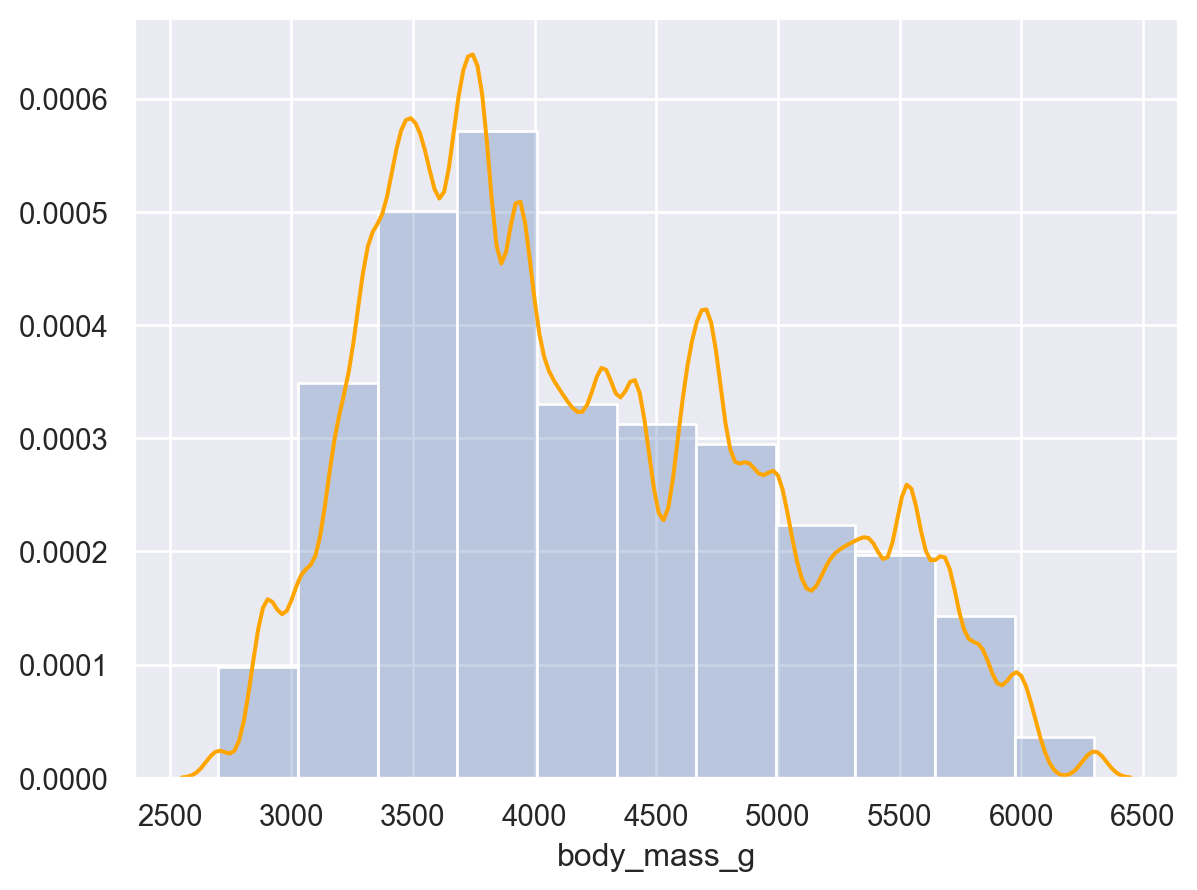
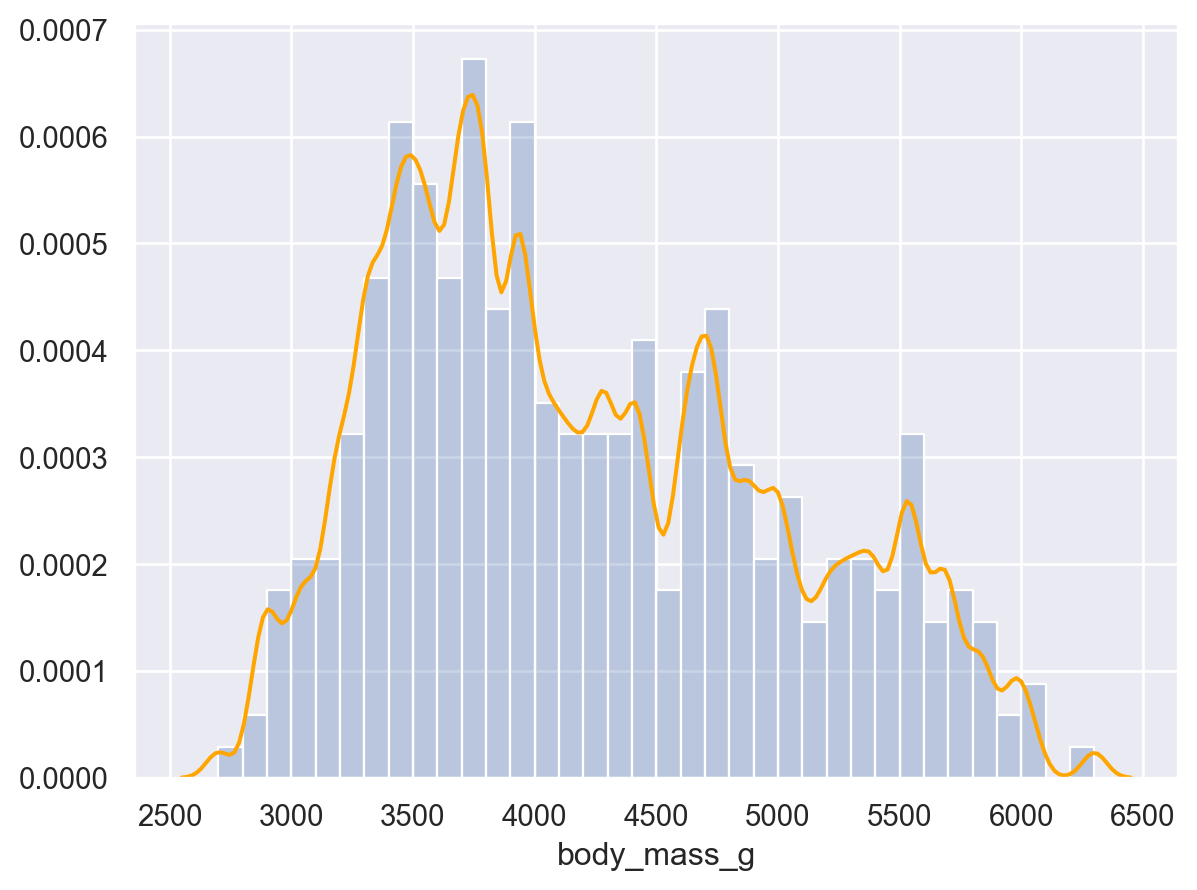
d

diff --git a/docs/contents/plots.html b/docs/contents/plots.html
@@ -510,7 +510,7 @@ code span.wa { color: #60a0b0; font-weight: bold; font-style: italic; } /* Warni
 </section>
 <section id="first-steps" class="level2">
 <h2 class="anchored" data-anchor-id="first-steps">First steps</h2>
-<div class="cell" data-execution_count="7">
+<div class="cell" data-execution_count="1">
 <details>
 <summary>Load packages</summary>
 <div class="sourceCode cell-code" id="cb1"><pre class="sourceCode python code-with-copy"><code class="sourceCode python"><span id="cb1-1"><a href="#cb1-1" aria-hidden="true" tabindex="-1"></a><span class="co"># numerical calculation &amp; data frames</span></span>
@@ -527,7 +527,7 @@ code span.wa { color: #60a0b0; font-weight: bold; font-style: italic; } /* Warni
 <span id="cb1-12"><a href="#cb1-12" aria-hidden="true" tabindex="-1"></a><span class="im">import</span> statsmodels.api <span class="im">as</span> sm</span></code><button title="Copy to Clipboard" class="code-copy-button"><i class="bi"></i></button></pre></div>
 </details>
 </div>
-<div class="cell" data-execution_count="9">
+<div class="cell" data-execution_count="3">
 <details>
 <summary>Options</summary>
 <div class="sourceCode cell-code" id="cb2"><pre class="sourceCode python code-with-copy"><code class="sourceCode python"><span id="cb2-1"><a href="#cb2-1" aria-hidden="true" tabindex="-1"></a><span class="co"># pandas options</span></span>
@@ -1015,12 +1015,12 @@ Tip
 </div>
 </div>
 </div>
-<div class="cell" data-execution_count="5">
+<div class="cell" data-execution_count="4">
 <div class="sourceCode cell-code" id="cb19"><pre class="sourceCode python code-with-copy"><code class="sourceCode python"><span id="cb19-1"><a href="#cb19-1" aria-hidden="true" tabindex="-1"></a>penguins <span class="op">=</span> sns.load_dataset(<span class="st">"penguins"</span>) <span class="co"># load a dataset: penguins</span></span>
 <span id="cb19-2"><a href="#cb19-2" aria-hidden="true" tabindex="-1"></a>penguins.head()</span></code><button title="Copy to Clipboard" class="code-copy-button"><i class="bi"></i></button></pre></div>
-<div class="cell-output cell-output-display" data-execution_count="5">
-<pre><code>  species     island  bill_length_mm  bill_depth_mm  flipper_length_mm  \
-0  Adelie  Torgersen           39.10          18.70             181.00   
+<div class="cell-output cell-output-display" data-execution_count="4">
+<pre><code>  species     island  bill_length_mm  bill_depth_mm  flipper_length_mm   
+0  Adelie  Torgersen           39.10          18.70             181.00  \
 1  Adelie  Torgersen           39.50          17.40             186.00   
 2  Adelie  Torgersen           40.30          18.00             195.00   
 3  Adelie  Torgersen             NaN            NaN                NaN   
@@ -1591,9 +1591,9 @@ Important
 <span id="cb43-3"><a href="#cb43-3" aria-hidden="true" tabindex="-1"></a>    so.Plot(penguins, x<span class="op">=</span><span class="st">"body_mass_g"</span>)</span>
 <span id="cb43-4"><a href="#cb43-4" aria-hidden="true" tabindex="-1"></a>    .add(so.Area(), so.KDE()) <span class="co"># Density plot</span></span>
 <span id="cb43-5"><a href="#cb43-5" aria-hidden="true" tabindex="-1"></a>)</span></code><button title="Copy to Clipboard" class="code-copy-button"><i class="bi"></i></button></pre></div>
-<div class="cell quarto-layout-panel" data-execution_count="86">
+<div class="cell quarto-layout-panel" data-execution_count="5">
 <div class="quarto-layout-row quarto-layout-valign-top">
-<div class="cell-output cell-output-display quarto-layout-cell" data-execution_count="86" style="flex-basis: 50.0%;justify-content: center;">
+<div class="cell-output cell-output-display quarto-layout-cell" data-execution_count="5" style="flex-basis: 50.0%;justify-content: center;">
 <p><img src="plots_files/figure-html/cell-51-output-1.png" class="img-fluid" width="599"></p>
 </div>
 </div>
@@ -1604,11 +1604,11 @@ Important
 <span id="cb44-2"><a href="#cb44-2" aria-hidden="true" tabindex="-1"></a>(</span>
 <span id="cb44-3"><a href="#cb44-3" aria-hidden="true" tabindex="-1"></a>    so.Plot(penguins, x<span class="op">=</span><span class="st">"body_mass_g"</span>)</span>
 <span id="cb44-4"><a href="#cb44-4" aria-hidden="true" tabindex="-1"></a>    .add(so.Line(color<span class="op">=</span><span class="st">"orange"</span>), so.KDE(bw_adjust<span class="op">=</span><span class="fl">.2</span>)) <span class="co"># Density bandwidth: binwidth에 대응</span></span>
-<span id="cb44-5"><a href="#cb44-5" aria-hidden="true" tabindex="-1"></a>    .add(so.Bars(alpha<span class="op">=</span><span class="fl">.3</span>), so.Hist(<span class="st">"density"</span>)) <span class="co"># stat="density"</span></span>
+<span id="cb44-5"><a href="#cb44-5" aria-hidden="true" tabindex="-1"></a>    .add(so.Bars(alpha<span class="op">=</span><span class="fl">.3</span>), so.Hist(<span class="st">"density"</span>, binwidth<span class="op">=</span><span class="dv">100</span>)) <span class="co"># stat="density"</span></span>
 <span id="cb44-6"><a href="#cb44-6" aria-hidden="true" tabindex="-1"></a>)</span></code><button title="Copy to Clipboard" class="code-copy-button"><i class="bi"></i></button></pre></div>
-<div class="cell quarto-layout-panel" data-execution_count="39">
+<div class="cell quarto-layout-panel" data-execution_count="14">
 <div class="quarto-layout-row quarto-layout-valign-top">
-<div class="cell-output cell-output-display quarto-layout-cell" data-execution_count="39" style="flex-basis: 50.0%;justify-content: center;">
+<div class="cell-output cell-output-display quarto-layout-cell" data-execution_count="14" style="flex-basis: 50.0%;justify-content: center;">
 <p><img src="plots_files/figure-html/cell-52-output-1.png" class="img-fluid" width="599"></p>
 </div>
 </div>

diff --git a/docs/contents/exercise2.html b/docs/contents/exercise2.html
@@ -636,7 +636,7 @@ ml-1m.zip 압축파일을 풀어 <code>users.dat</code>, <code>ratings.dat</code
 <li>남녀별로 편차 상위 2개만 표시합니다. (동등한 순서 모두 포함)
 <ul>
 <li><p>다음 method를 이용하는 함수를 정의하고 <code>apply()</code>로 적용해 봅니다.</p>
-<div class="sourceCode" id="cb12"><pre class="sourceCode python code-with-copy"><code class="sourceCode python"><span id="cb12-1"><a href="#cb12-1" aria-hidden="true" tabindex="-1"></a>df.nlargest(n, <span class="st">"var"</span>, keep<span class="op">=</span><span class="st">"all"</span>)</span></code><button title="Copy to Clipboard" class="code-copy-button"><i class="bi"></i></button></pre></div></li>
+<div class="sourceCode" id="cb12"><pre class="sourceCode python code-with-copy"><code class="sourceCode python"><span id="cb12-1"><a href="#cb12-1" aria-hidden="true" tabindex="-1"></a>df.nlargest(n, <span class="st">"variable name"</span>, keep<span class="op">=</span><span class="st">"all"</span>)</span></code><button title="Copy to Clipboard" class="code-copy-button"><i class="bi"></i></button></pre></div></li>
 </ul></li>
 <li>영화제목을 <code>movies</code> 데이터와 merge하여 표시합니다.</li>
 </ul></li>
@@ -819,9 +819,9 @@ ml-1m.zip 압축파일을 풀어 <code>users.dat</code>, <code>ratings.dat</code
 <li><p>11.2 출시년도가 없는 영화가 있는가요?</p></li>
 <li><p>11.3 오래된 영화일수록 나이든 사람들의 시청 비율이 높을지에 대해 분포를 살펴보세요.</p>
 <ul>
-<li><p>나이를 다음과 같이 카테고리화하여 분석합니다.</p>
+<li><p>나이를 다음과 같이 (pandas) <code>category</code> type으로 변환하여 분석합니다.</p>
 <div class="sourceCode" id="cb19"><pre class="sourceCode python code-with-copy"><code class="sourceCode python"><span id="cb19-1"><a href="#cb19-1" aria-hidden="true" tabindex="-1"></a>.assign(</span>
-<span id="cb19-2"><a href="#cb19-2" aria-hidden="true" tabindex="-1"></a>    age <span class="op">=</span> <span class="kw">lambda</span> x: pd.Categorical(x.age, categories<span class="op">=</span>[<span class="st">"1"</span>, <span class="st">"18"</span>, <span class="st">"25"</span>, <span class="st">"35"</span>, <span class="st">"45"</span>, <span class="st">"50"</span>, <span class="st">"56"</span>], ordered<span class="op">=</span><span class="va">True</span>)</span>
+<span id="cb19-2"><a href="#cb19-2" aria-hidden="true" tabindex="-1"></a>    age <span class="op">=</span> <span class="kw">lambda</span> x: pd.Categorical(x.age.astype(<span class="st">"string"</span>), categories<span class="op">=</span>[<span class="st">"1"</span>, <span class="st">"18"</span>, <span class="st">"25"</span>, <span class="st">"35"</span>, <span class="st">"45"</span>, <span class="st">"50"</span>, <span class="st">"56"</span>], ordered<span class="op">=</span><span class="va">True</span>)</span>
 <span id="cb19-3"><a href="#cb19-3" aria-hidden="true" tabindex="-1"></a>)</span></code><button title="Copy to Clipboard" class="code-copy-button"><i class="bi"></i></button></pre></div></li>
 <li><p>나이를 row에 facet하는 방식으로 분포를 살펴보세요.</p></li>
 </ul></li>
@@ -836,8 +836,10 @@ ml-1m.zip 압축파일을 풀어 <code>users.dat</code>, <code>ratings.dat</code
 <div class="sourceCode" id="cb20"><pre class="sourceCode python code-with-copy"><code class="sourceCode python"><span id="cb20-1"><a href="#cb20-1" aria-hidden="true" tabindex="-1"></a>movies.assign(</span>
 <span id="cb20-2"><a href="#cb20-2" aria-hidden="true" tabindex="-1"></a>    decade <span class="op">=</span> <span class="kw">lambda</span> x: np.floor(x.year <span class="op">/</span> <span class="dv">10</span>) <span class="op">*</span> <span class="dv">10</span>  <span class="co"># np.floor(): 내림</span></span>
 <span id="cb20-3"><a href="#cb20-3" aria-hidden="true" tabindex="-1"></a>)</span></code><button title="Copy to Clipboard" class="code-copy-button"><i class="bi"></i></button></pre></div></li>
-<li><p><code>decade</code>와 <code>genres</code>에 대해 <code>pd.crosstab()</code>을 적용하여 비율에 대한 테이블을 만든 후 그려보세요.</p></li>
-<li><p><code>pd.crosstab()</code>의 파라미터를 확인해서 <strong>비율</strong>을 구하세요.</p></li>
+<li><p><code>decade</code>와 <code>genres</code>에 대해 <code>pd.crosstab()</code>을 적용하여 비율에 대한 테이블을 만든 후 <code>stack()</code>을 적용하여 long foramt으로 바꾼 후 그려보세요.</p>
+<ul>
+<li><code>pd.crosstab()</code>의 파라미터를 확인해서 <strong>비율</strong>을 구하세요.</li>
+</ul></li>
 </ul>
 <div class="cell" data-execution_count="162">
 <div class="cell-output cell-output-display" data-execution_count="162">
